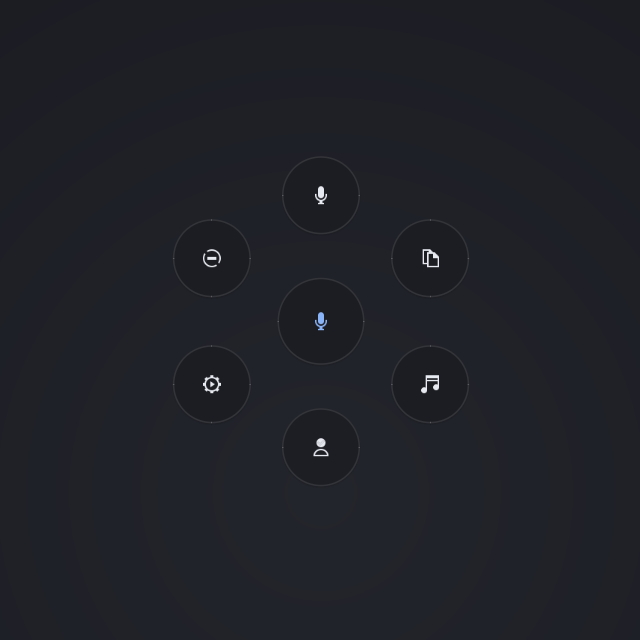
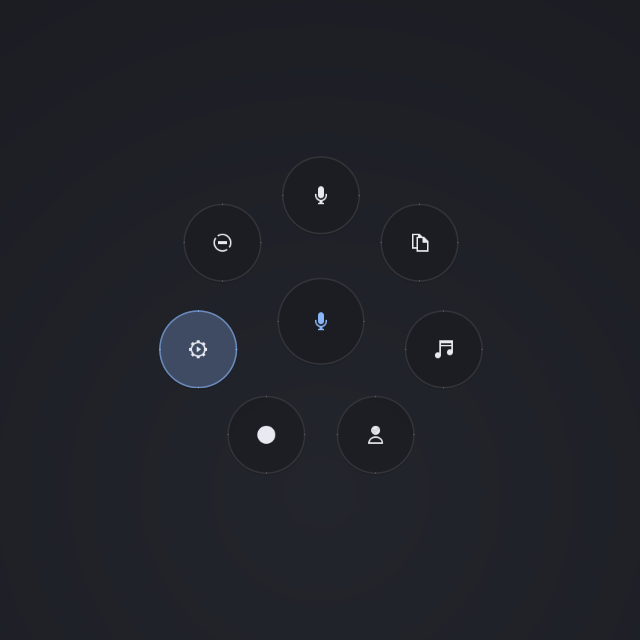
In-app always-on toggle: menu bubble, Ctrl+Alt+A, dictate listen --toggle
The record bubble shows green while the listener is live; toggle spawns a
detached listener logging to $XDG_RUNTIME_DIR/dictatr/listen.log, or
SIGTERMs the running one (clean exit, so a systemd-managed listener stays
down). Menu screenshot updated for the seventh bubble.

diff --git a/ui/menu.py b/ui/menu.py
@@ -32,6 +32,7 @@ from gi.repository import Gdk, GLib, Gtk  # noqa: E402
 REPO = Path(__file__).resolve().parent.parent
 DICTATE = str(REPO / "bin" / "dictate")
 sys.path.insert(0, str(REPO / "src"))
+from dictatr import runstate  # noqa: E402
 from dictatr.settings import CONFIG_PATH, settings  # noqa: E402
 
 # (icon, tooltip, action) — action: list = dictate args, str = internal
@@ -40,6 +41,8 @@ ACTIONS = [
     ("edit-copy-symbolic", "Dictate to clipboard", ["clip"]),
     ("folder-music-symbolic", "Transcribe audio file…", "file"),
     ("user-available-symbolic", "Ask the AI (speak a question)", ["ask"]),
+    ("media-record-symbolic", "Always-on capture (toggle)",
+     ["listen", "--toggle"]),
     ("emblem-system-symbolic", "Settings", "settings"),
     ("process-stop-symbolic", "Cancel recording", ["cancel"]),
 ]
@@ -67,6 +70,8 @@ window { background: transparent; }
   background: alpha(#8ab4f8, 0.28);
   border-color: alpha(#8ab4f8, 0.6);
 }
+.bubble.on { background: alpha(#81c995, 0.25); border-color: alpha(#81c995, 0.6); }
+.bubble.on image { color: #81c995; }
 .hub:hover { background: alpha(#f28b82, 0.25); }
 .settings-box { padding: 18px; }
 """
@@ -141,9 +146,12 @@ class Radial(Gtk.ApplicationWindow):
 
         # Satellites first (behind the hub), stacked at the center, hidden.
         self.bubbles = []
-        for i, (icon, tip, _) in enumerate(ACTIONS):
+        for i, (icon, tip, action) in enumerate(ACTIONS):
             b = Gtk.Button(icon_name=icon, tooltip_text=f"{tip}  [{i + 1}]")
             b.add_css_class("bubble")
+            if action == ["listen", "--toggle"] and \
+                    runstate.live_pid(runstate.LISTEN_PID):
+                b.add_css_class("on")  # listener is live: show it green
             b.set_size_request(BUBBLE, BUBBLE)
             b.set_opacity(0.0)
             b.connect("clicked", self.on_action, i)

diff --git a/src/dictatr/cli.py b/src/dictatr/cli.py
@@ -177,8 +177,11 @@ def main() -> None:
     sub.add_parser("tag", help="backfill concept tags for untagged archive rows")
     f = sub.add_parser("file", help="transcribe an audio file to the clipboard")
     f.add_argument("path")
-    sub.add_parser("listen", help="always-on: archive every utterance until "
-                                  "stopped (pauses during hotkey sessions)")
+    ls = sub.add_parser("listen", help="always-on: archive every utterance "
+                                       "until stopped (pauses during hotkey "
+                                       "sessions)")
+    ls.add_argument("--toggle", action="store_true",
+                    help="start detached, or stop the running listener")
     g = sub.add_parser("gc", help="quarantine junk archive clips, purge old trash")
     g.add_argument("--dry-run", action="store_true",
                    help="report what would be quarantined, touch nothing")
@@ -204,7 +207,7 @@ def main() -> None:
         sys.exit(cmd_file(args.path))
     if args.cmd == "listen":
         from . import listen
-        sys.exit(listen.main())
+        sys.exit(listen.toggle() if args.toggle else listen.main())
     if args.cmd == "gc":
         from . import cleanup
         if args.restore:

diff --git a/src/dictatr/listen.py b/src/dictatr/listen.py
@@ -177,3 +177,28 @@ def main() -> int:
         return asyncio.run(_run())
     finally:
         runstate.LISTEN_PID.unlink(missing_ok=True)
+
+
+def toggle() -> int:
+    """Hotkey/menu entry point: flip the always-on listener on or off.
+
+    Off just SIGTERMs whatever runs it — a clean exit, so a systemd unit
+    (Restart=on-failure) stays down too. On spawns a detached listener
+    logging to $XDG_RUNTIME_DIR/dictatr/listen.log."""
+    import os
+    import signal as _signal
+    import subprocess
+
+    from . import deliver as dlv
+
+    if pid := runstate.live_pid(runstate.LISTEN_PID):
+        os.kill(pid, _signal.SIGTERM)
+        dlv.notify("Always-on capture: off", 2500)
+        return 0
+    runstate.RUN.mkdir(parents=True, exist_ok=True)
+    with open(runstate.RUN / "listen.log", "ab") as log:
+        subprocess.Popen([sys.executable, "-m", "dictatr.cli", "listen"],
+                         start_new_session=True, stdout=log,
+                         stderr=subprocess.STDOUT)
+    dlv.notify("Always-on capture: on 🎙 (everything is archived)", 4000)
+    return 0

diff --git a/README.md b/README.md
@@ -54,7 +54,8 @@ cursor. Without gtk4-layer-shell the menu still works as a centered window
 Python dependency.
 
 **4. Hotkeys** — on KDE, `install.sh` binds Ctrl+Alt+D (dictate toggle),
-Ctrl+Alt+Space (menu), Ctrl+Alt+C (cancel); Plasma loads them at next login,
+Ctrl+Alt+Space (menu), Ctrl+Alt+C (cancel), Ctrl+Alt+A (always-on capture
+toggle); Plasma loads them at next login,
 or assign them now in System Settings → Shortcuts ("Dictate"). On other
 desktops bind `dictate type`, `dictate-menu`, and `dictate cancel` in your
 own shortcut settings — everything but the hotkey registration is
@@ -82,9 +83,12 @@ outside to dismiss); without it, a small centered window.
 hears — no typing, no clipboard, just the listenr-format archive filling up
 with fine-tuning data and recall context. It pauses automatically while a
 hotkey dictation is active (no duplicate rows), and if Lemonade is down the
-audio is archived untranscribed and backfilled on the next start. Opt in
-via systemd (`install.sh` installs the units but never enables them —
-an always-hot mic is your call):
+audio is archived untranscribed and backfilled on the next start.
+
+Toggle it with Ctrl+Alt+A, the record bubble in the menu (green while
+live), or `dictate listen --toggle`. To have it on from login instead, use
+the systemd units (`install.sh` installs them but never enables them — an
+always-hot mic is your call):
 
 ```bash
 systemctl --user enable --now dictatr-listen
